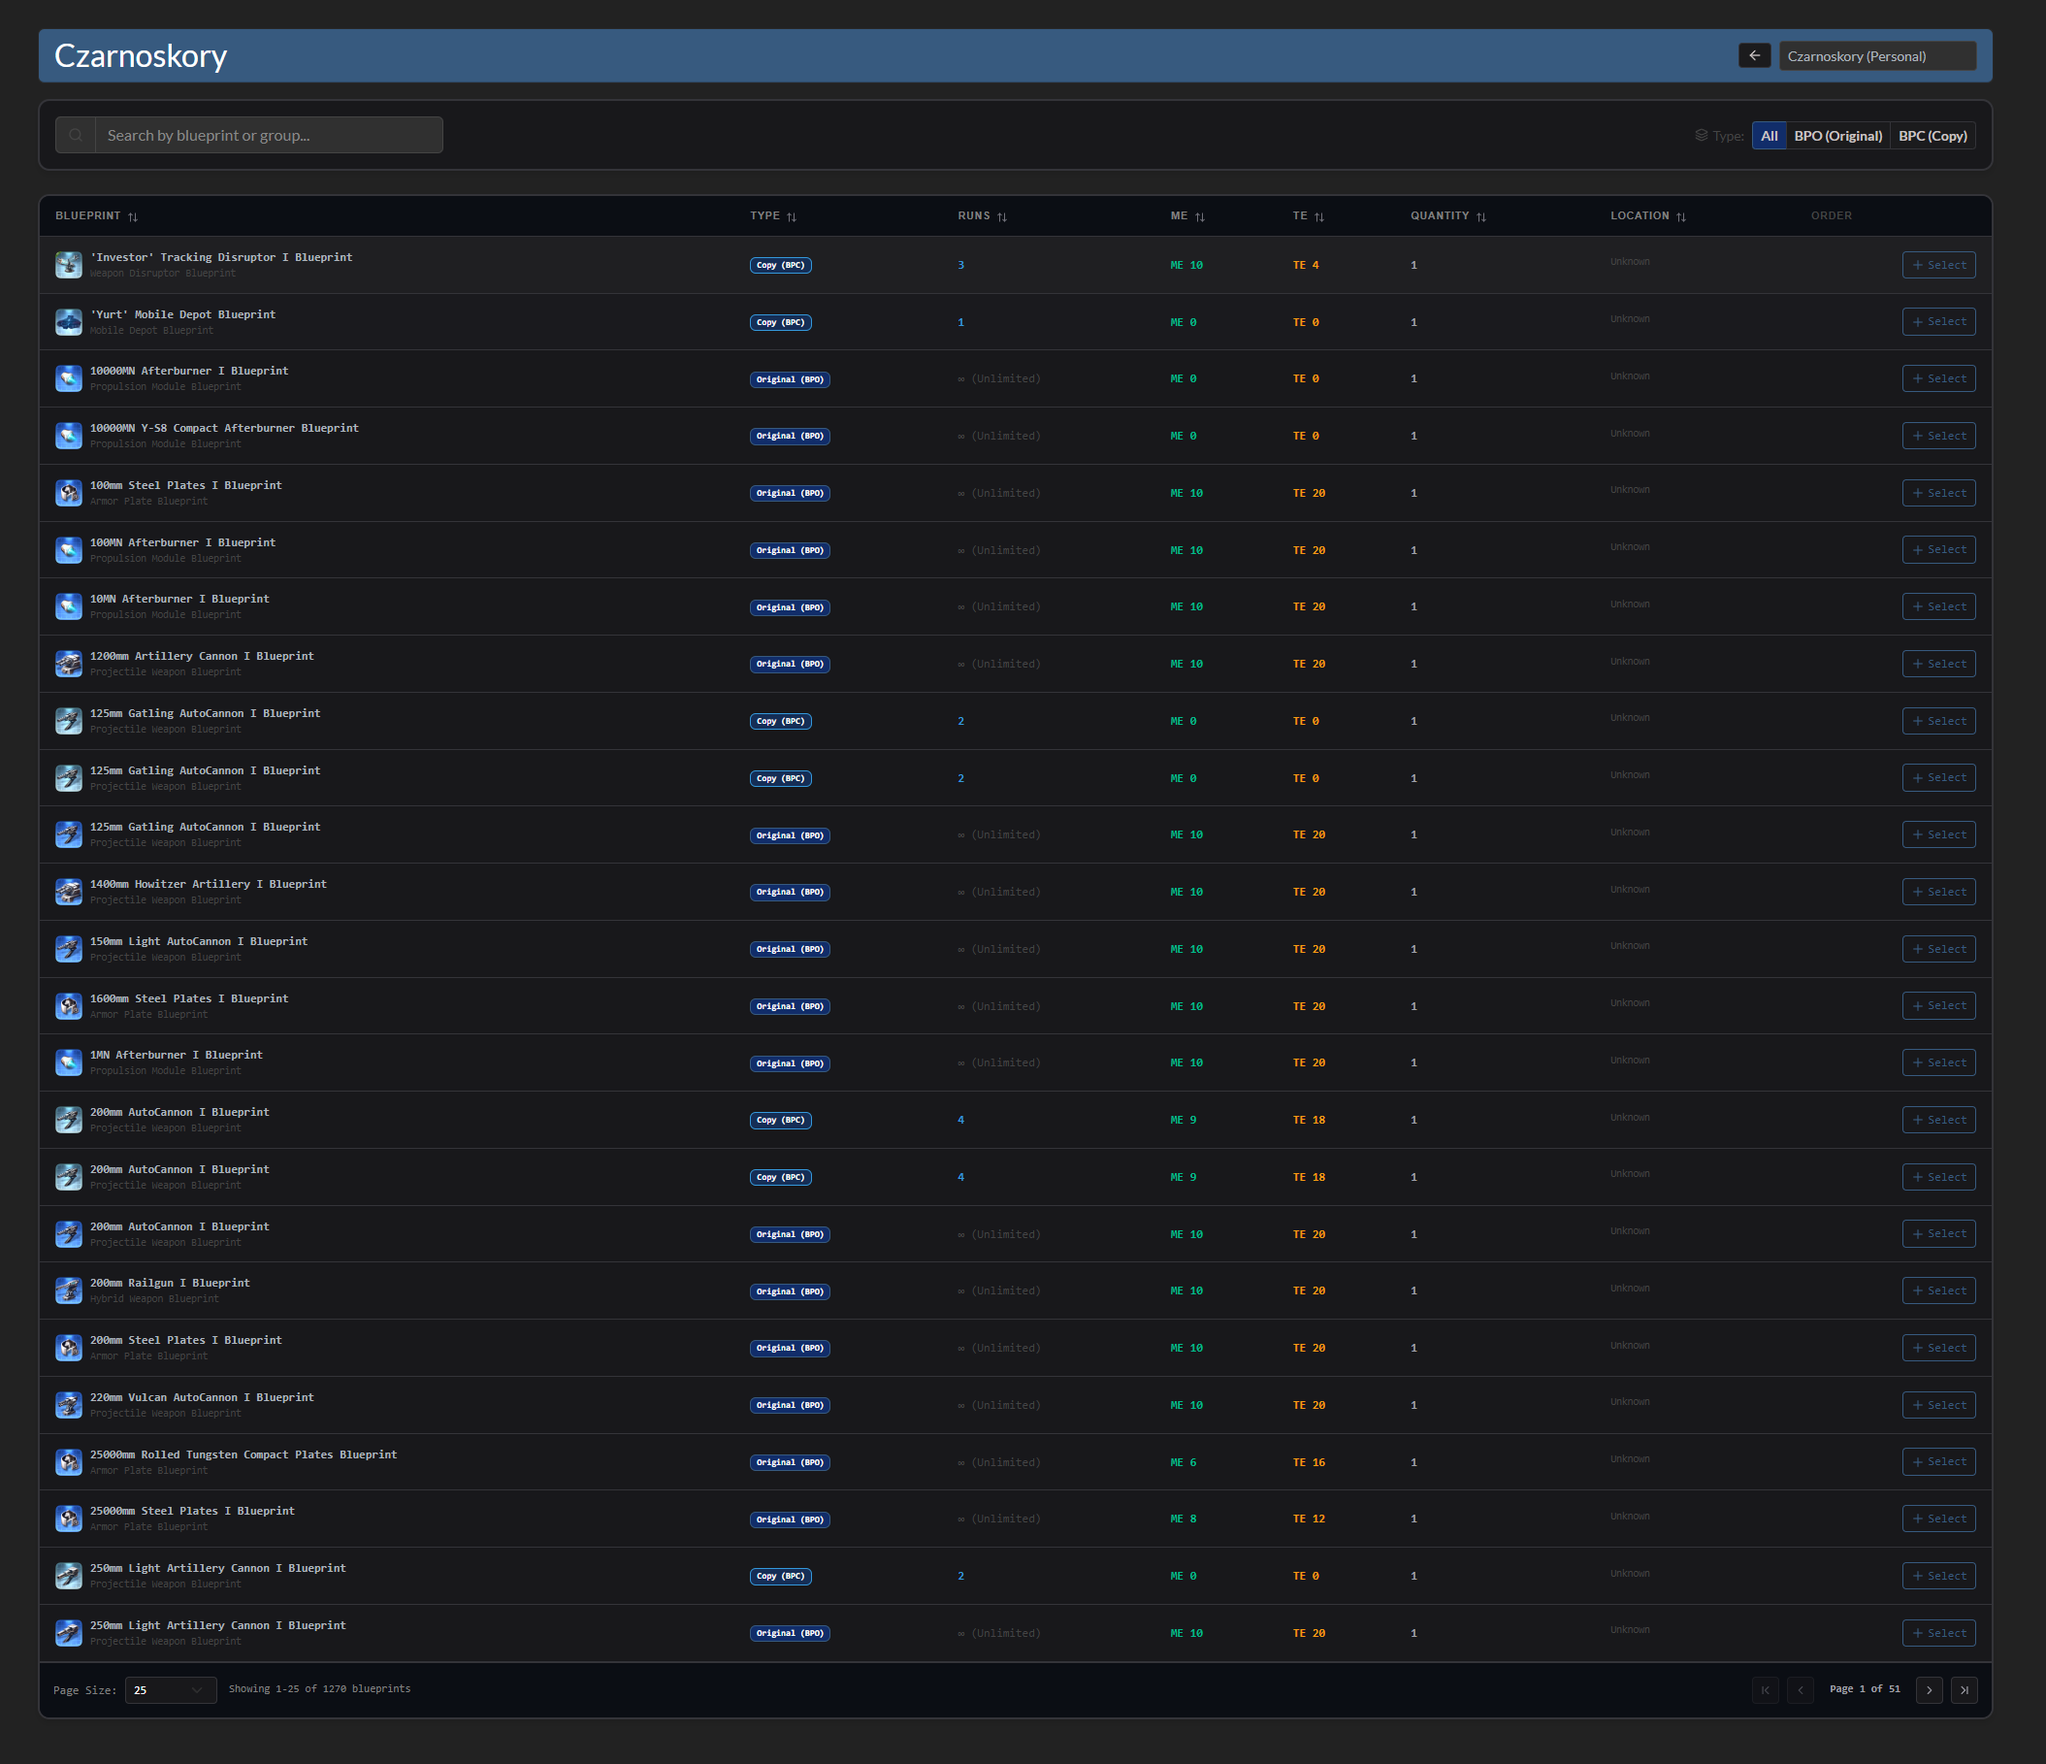
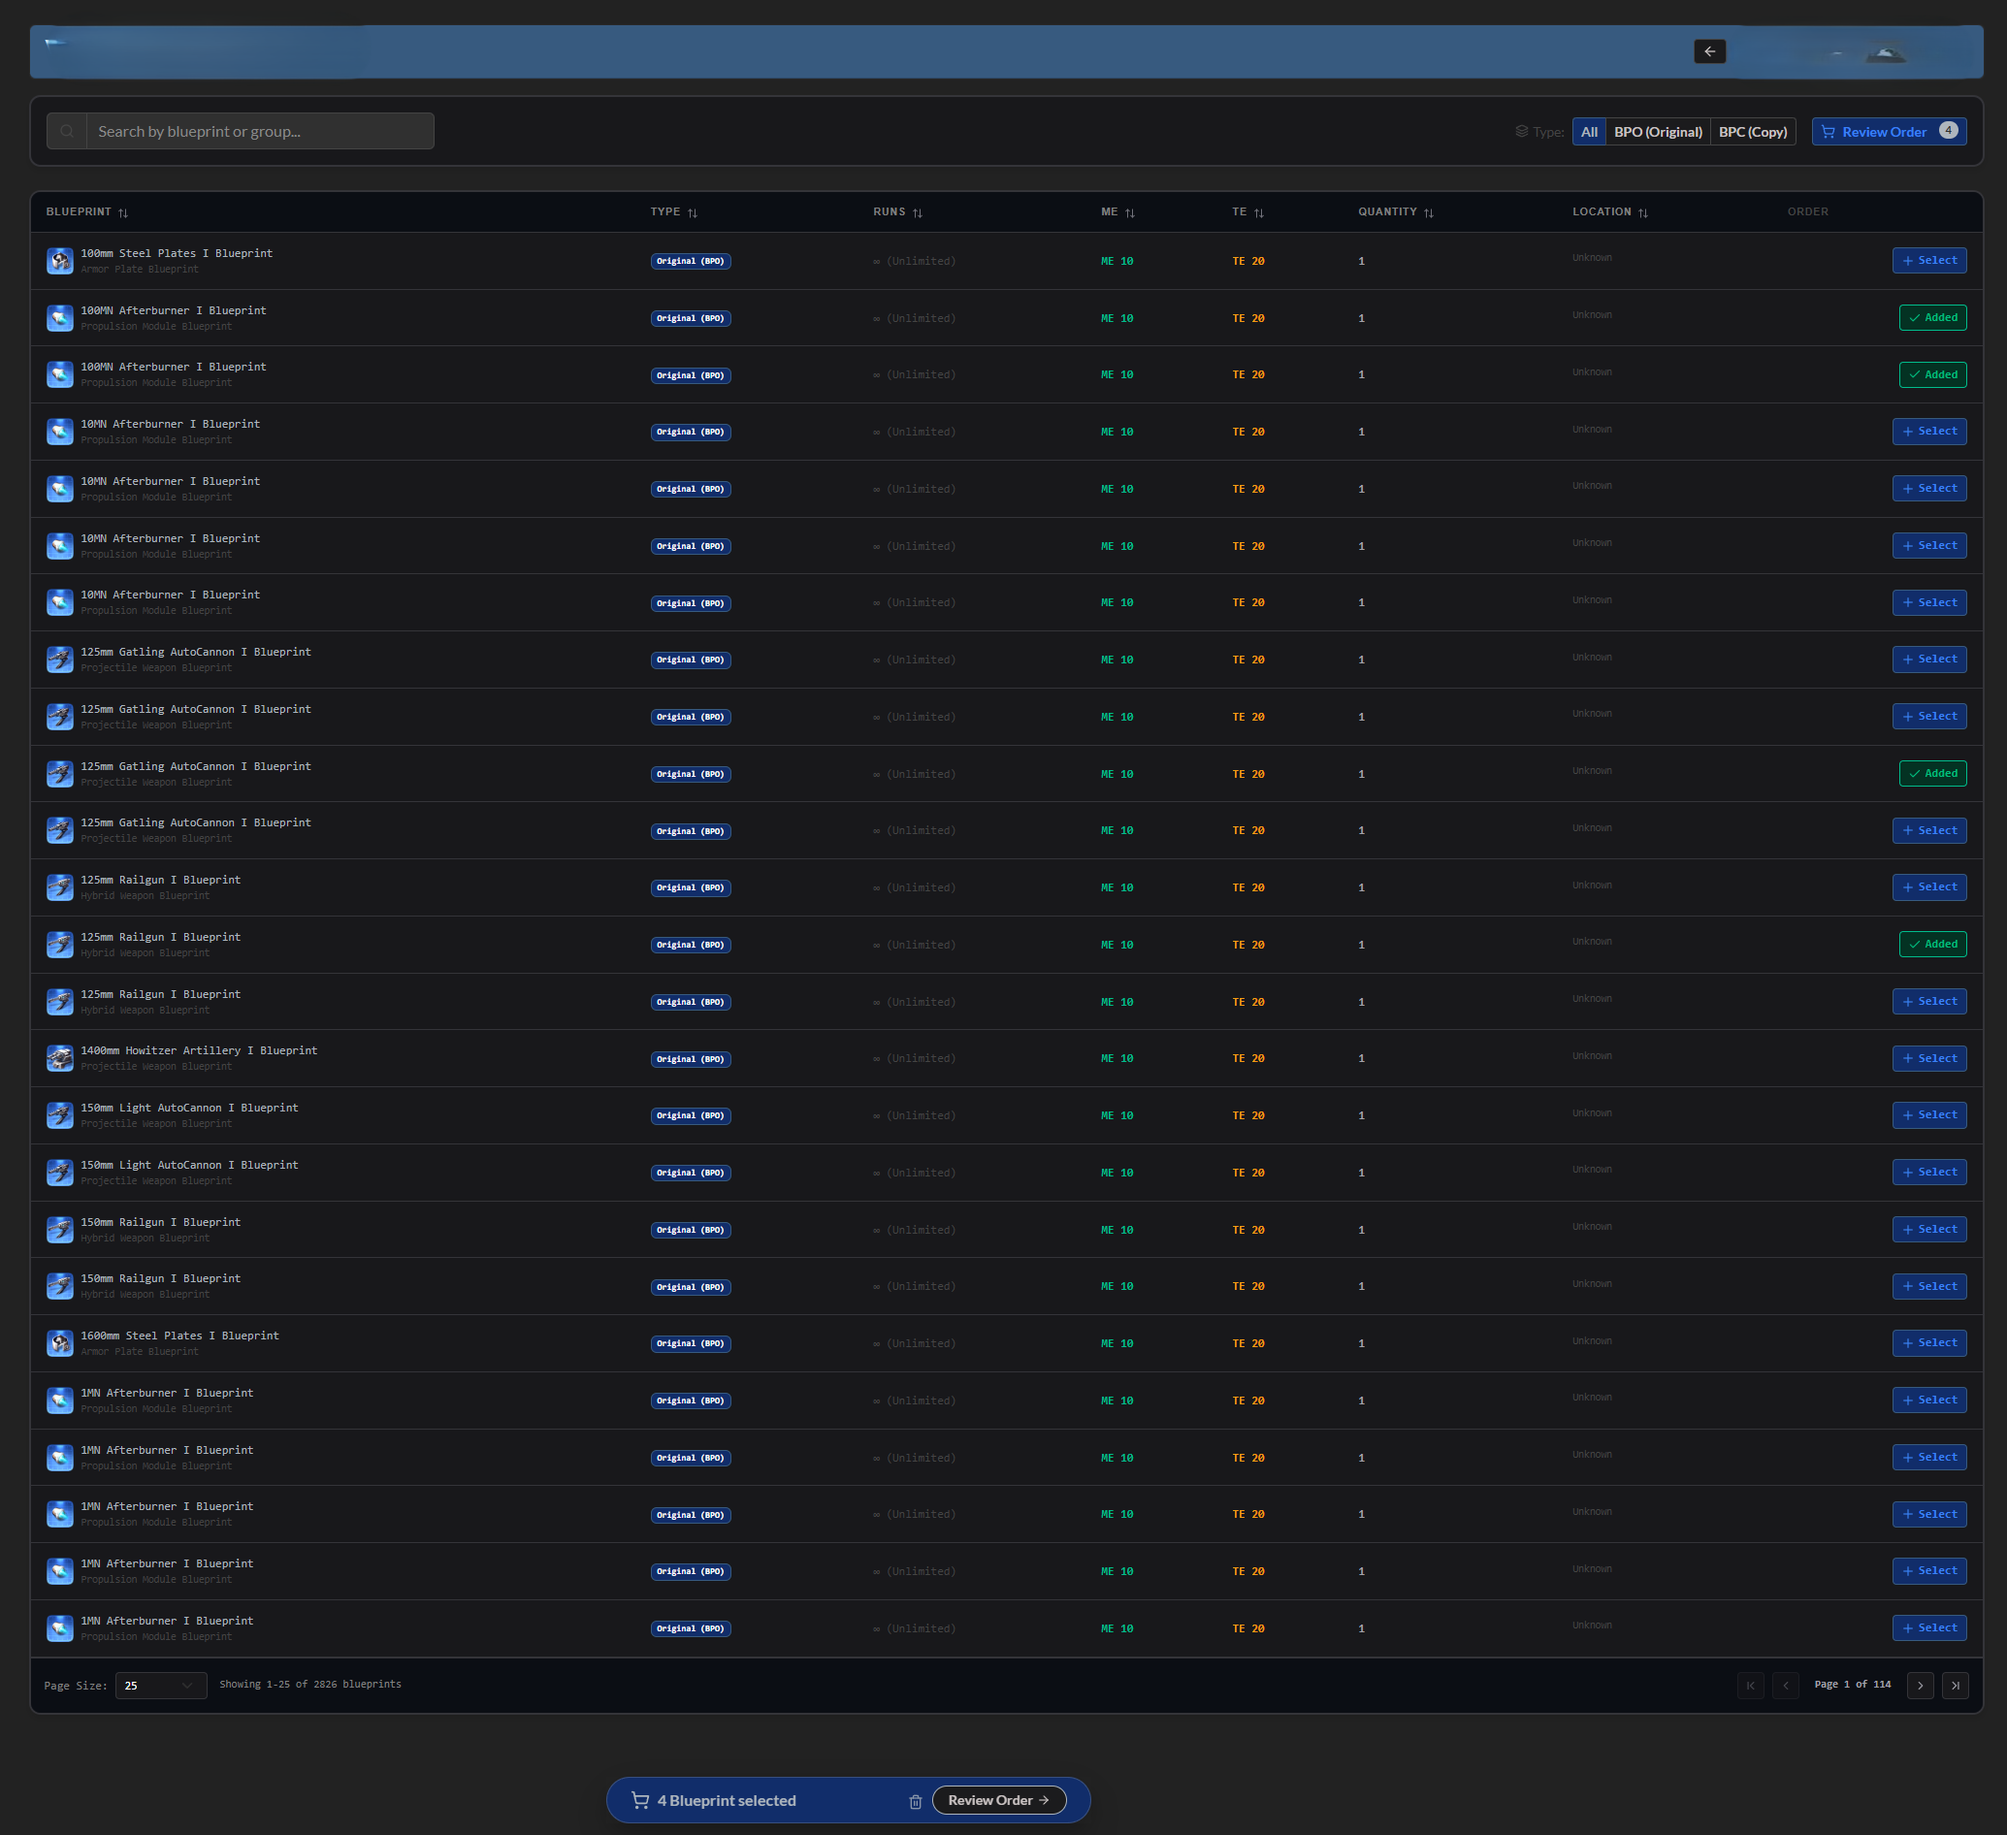
[CHANGE] update documentation images and add discord screenshot to readme

diff --git a/README.md b/README.md
@@ -65,6 +65,7 @@ ______________________________________________________________________
 ![Image: superuser]
 ![Image: orders]
 ![Image: blueprints]
+![Image: discord]
 
 ## Installation<a name="installation"></a>
 
@@ -180,6 +181,7 @@ Please ensure you read the [Contribution Guidelines]
 
 [contribution guidelines]: https://github.com/Geuthur/aa-blueprint-forge/blob/master/CONTRIBUTING.md "Contribution Guidelines"
 [image: blueprints]: https://raw.githubusercontent.com/geuthur/aa-blueprint-forge/master/docs/images/blueprints.png "Blueprint Forge Blueprints"
+[image: discord]: https://raw.githubusercontent.com/geuthur/aa-blueprint-forge/master/docs/images/discord.png "Blueprint Forge Discord"
 [image: orders]: https://raw.githubusercontent.com/geuthur/aa-blueprint-forge/master/docs/images/orders.png "Blueprint Forge Orders"
 [image: overview]: https://raw.githubusercontent.com/geuthur/aa-blueprint-forge/master/docs/images/overview.png "Blueprint Forge Overview"
 [image: superuser]: https://raw.githubusercontent.com/geuthur/aa-blueprint-forge/master/docs/images/superuser.png "Blueprint Forge Superuser"
